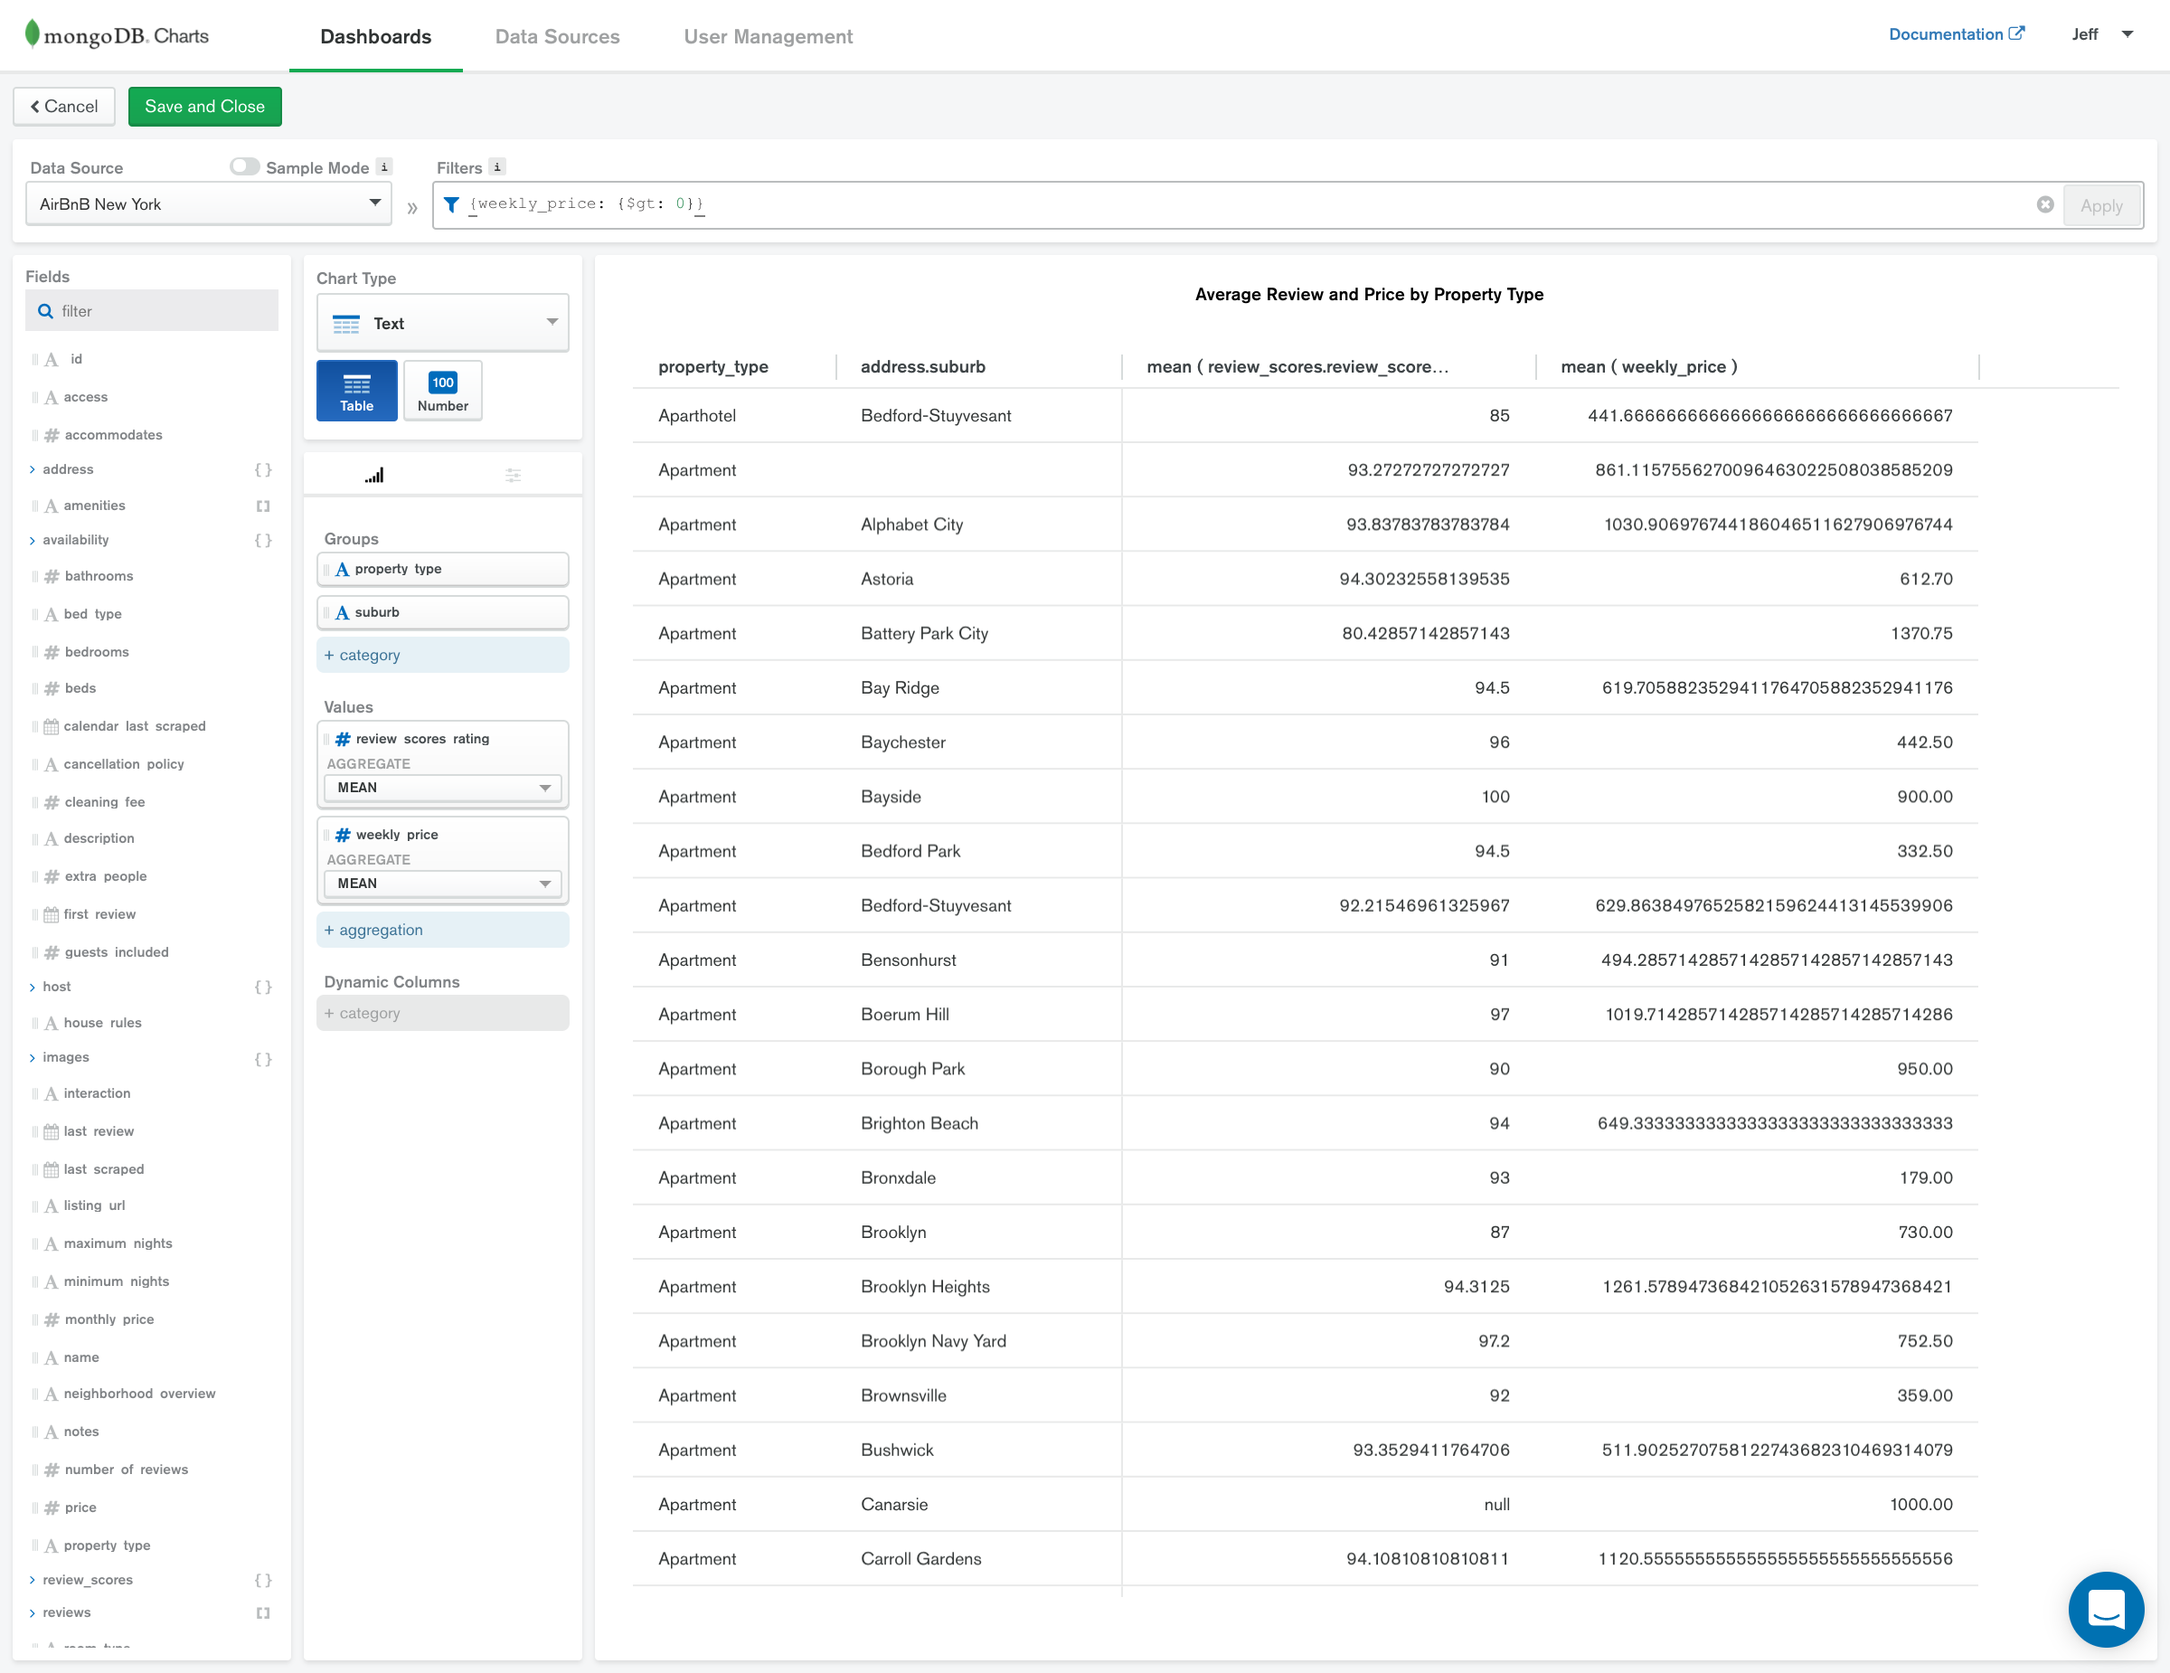
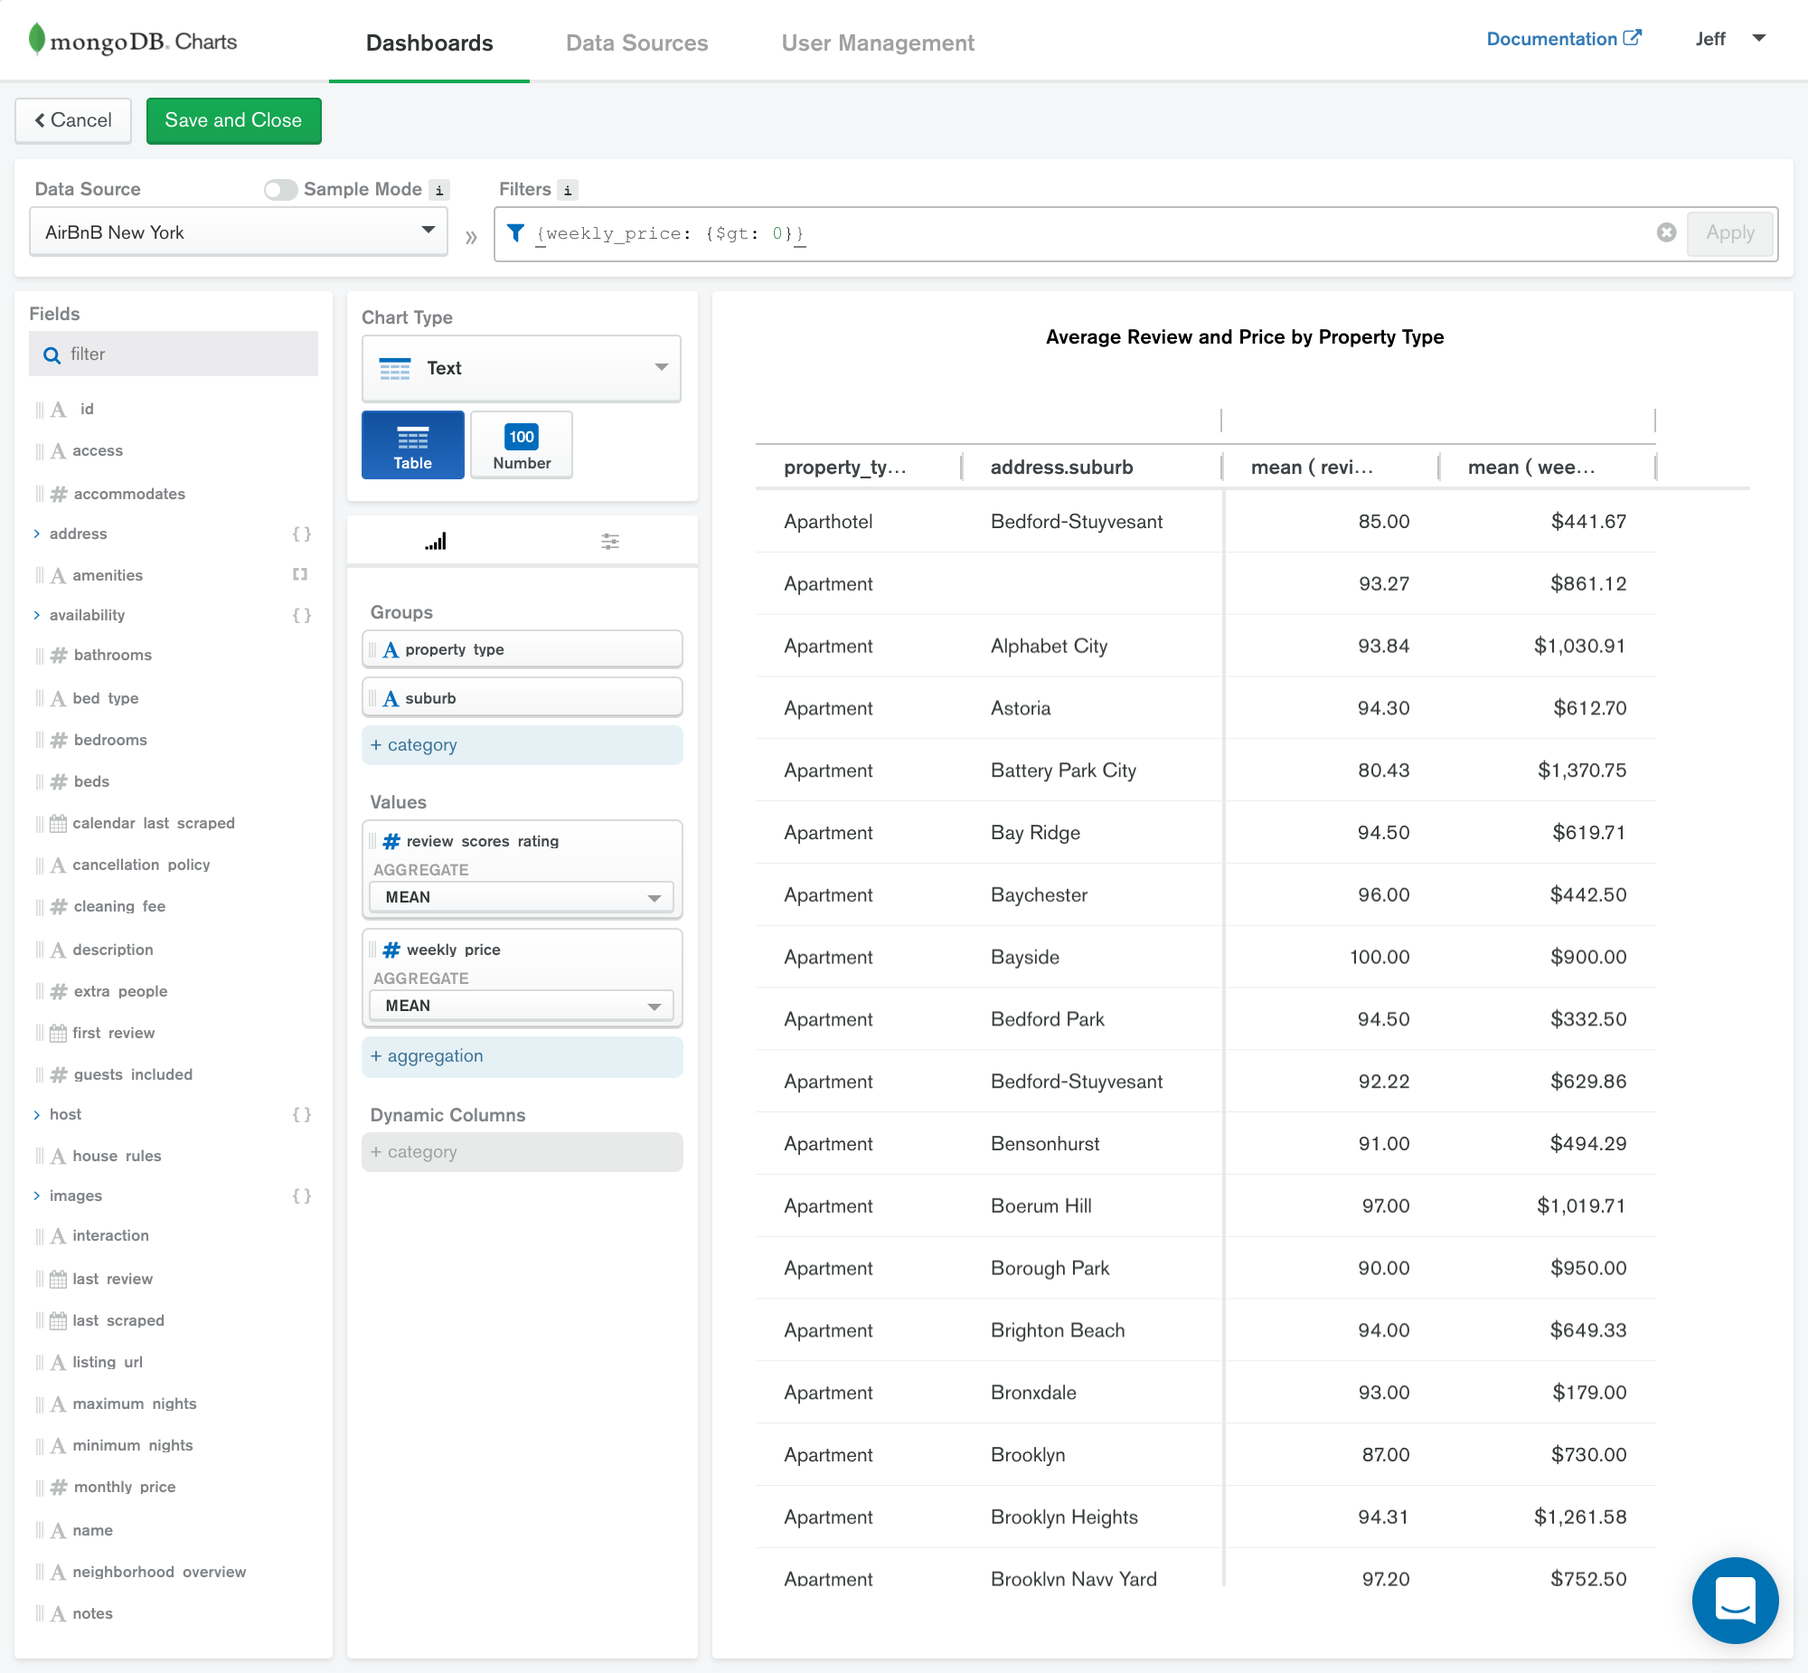
(DOCSP-3392): Updating data table images with proper format

diff --git a/screenshot-scripts/data-table-basic.js b/screenshot-scripts/data-table-basic.js
@@ -25,8 +25,8 @@ exports.nightmare_props = {
     show: true,
     typeInterval: 20,
     height: 1200,
-    width: 1200,
+    width: 1000,
     webPreferences: {
-      zoomFactor: 0.7
+      zoomFactor: 0.8
     }
 }

diff --git a/screenshot-scripts/data-table-dynamic.js b/screenshot-scripts/data-table-dynamic.js
@@ -25,8 +25,8 @@ exports.nightmare_props = {
     show: true,
     typeInterval: 20,
     height: 1200,
-    width: 1200,
+    width: 1000,
     webPreferences: {
-      zoomFactor: 0.7
+      zoomFactor: 0.8
     }
 }
